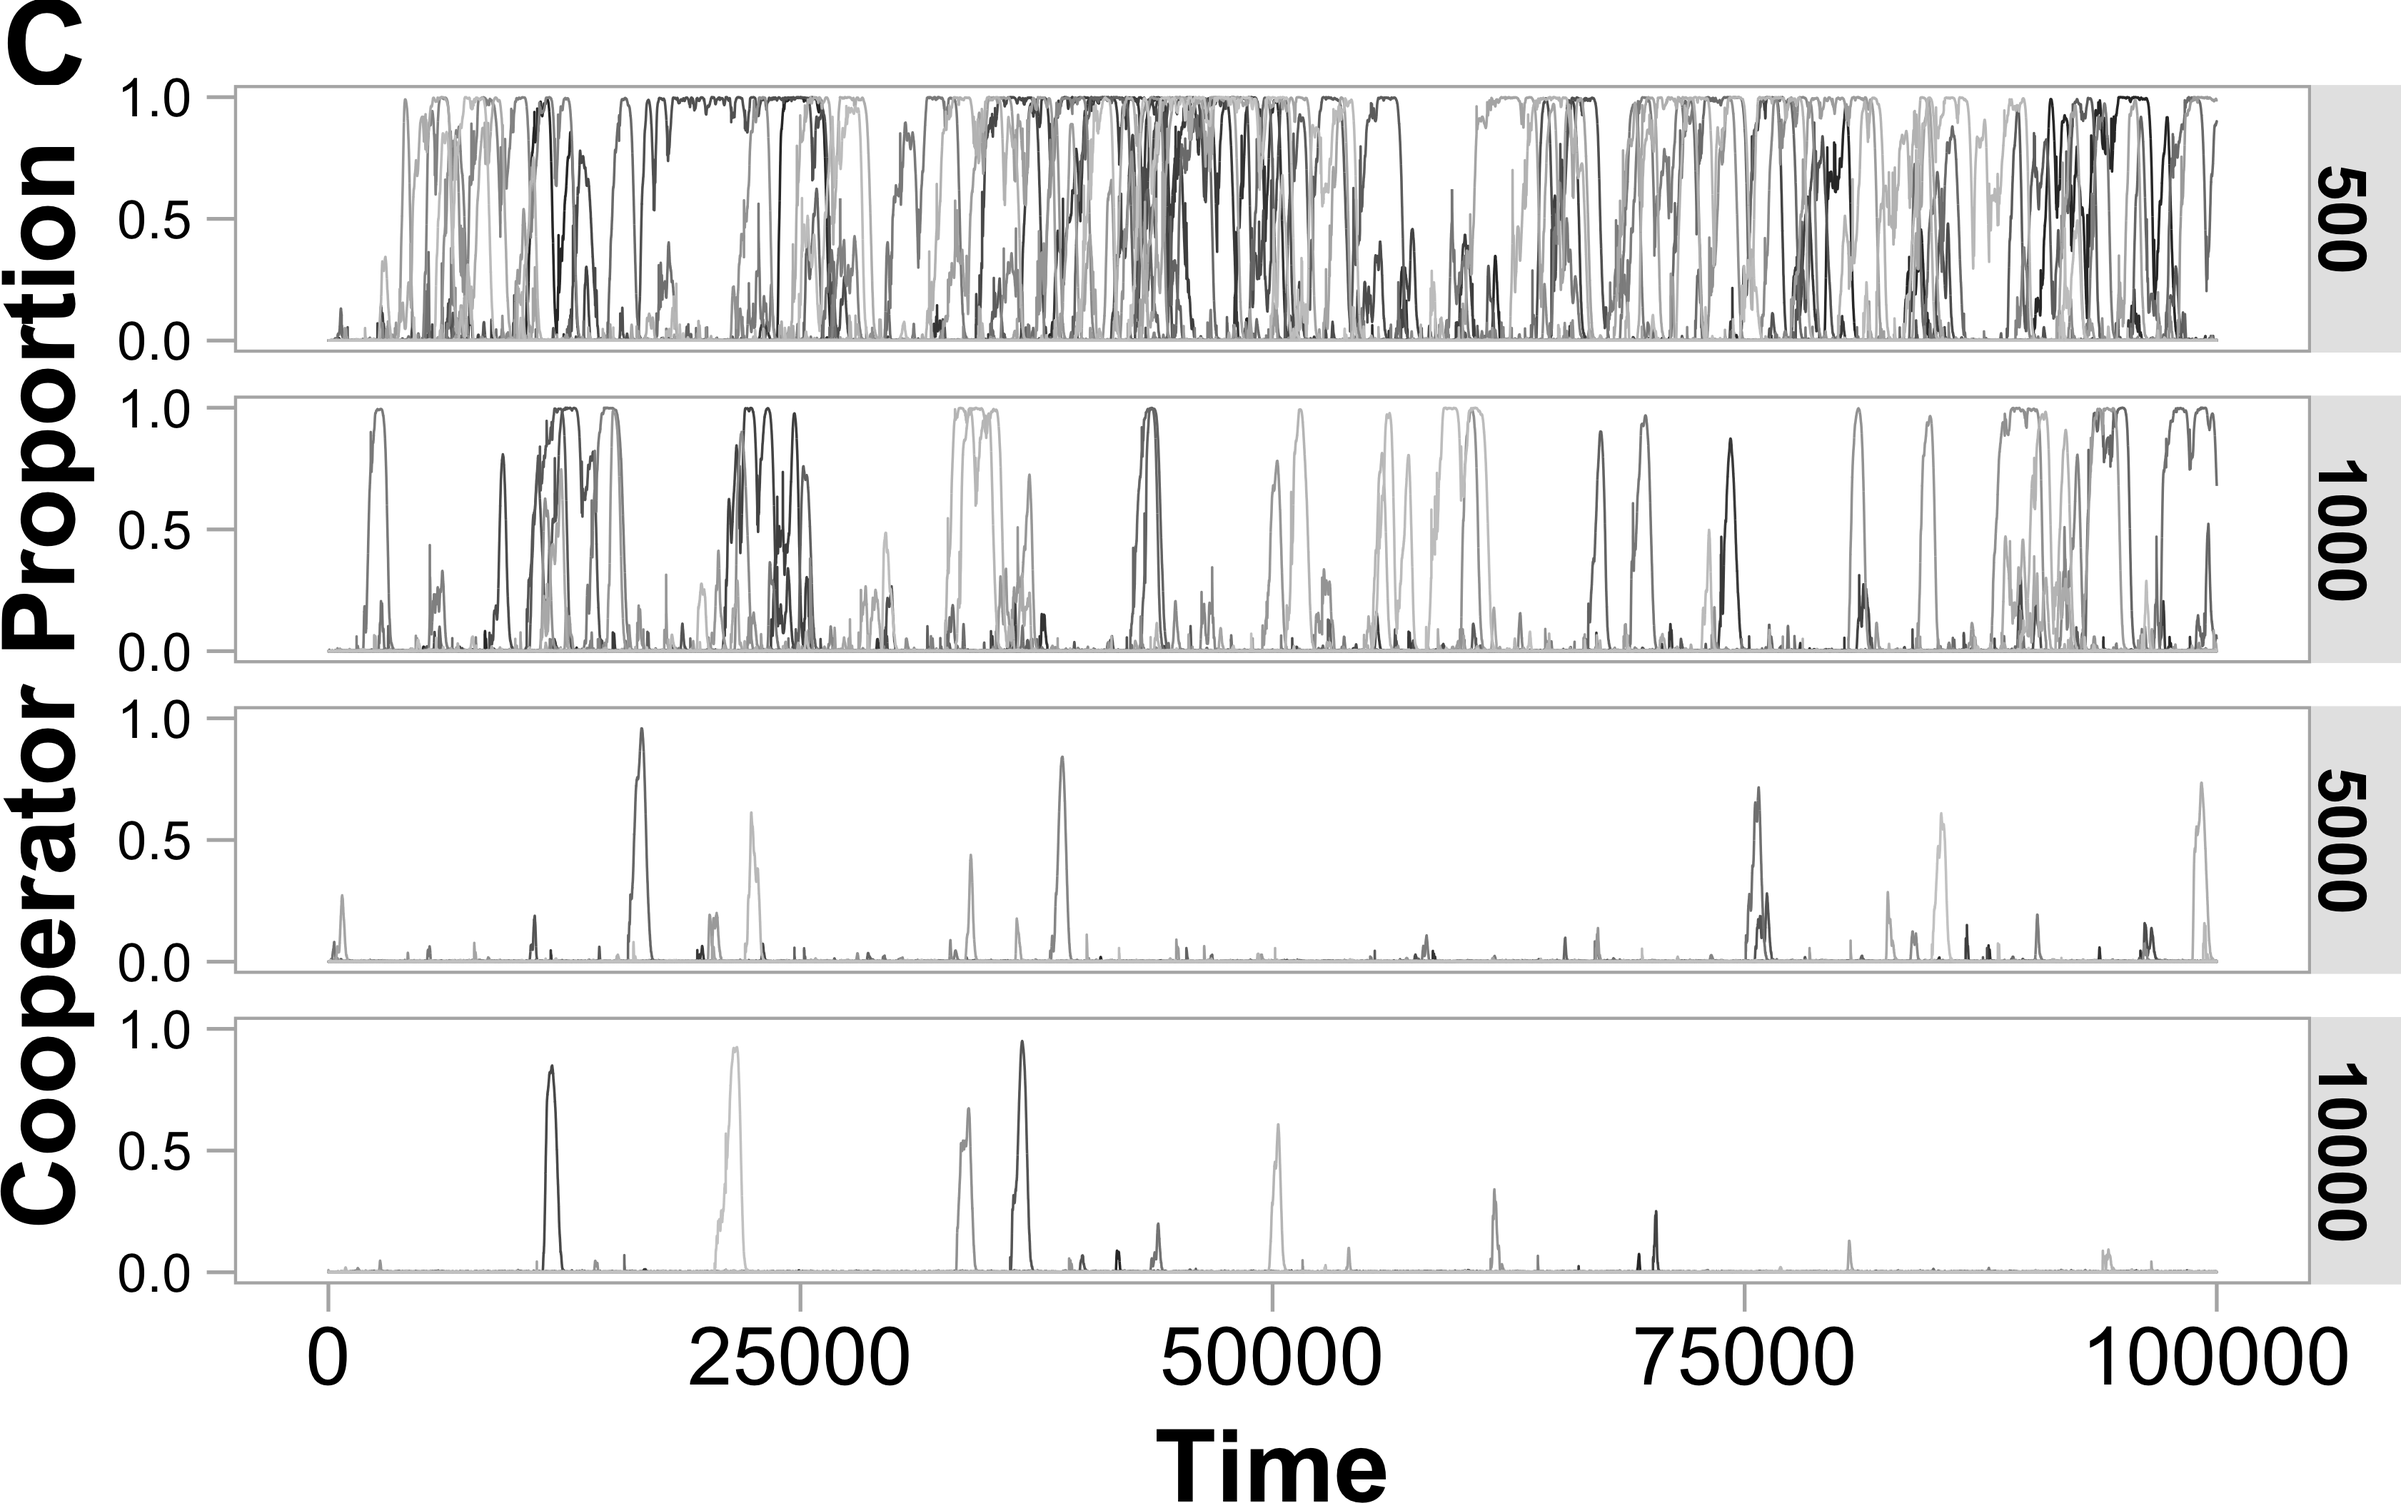
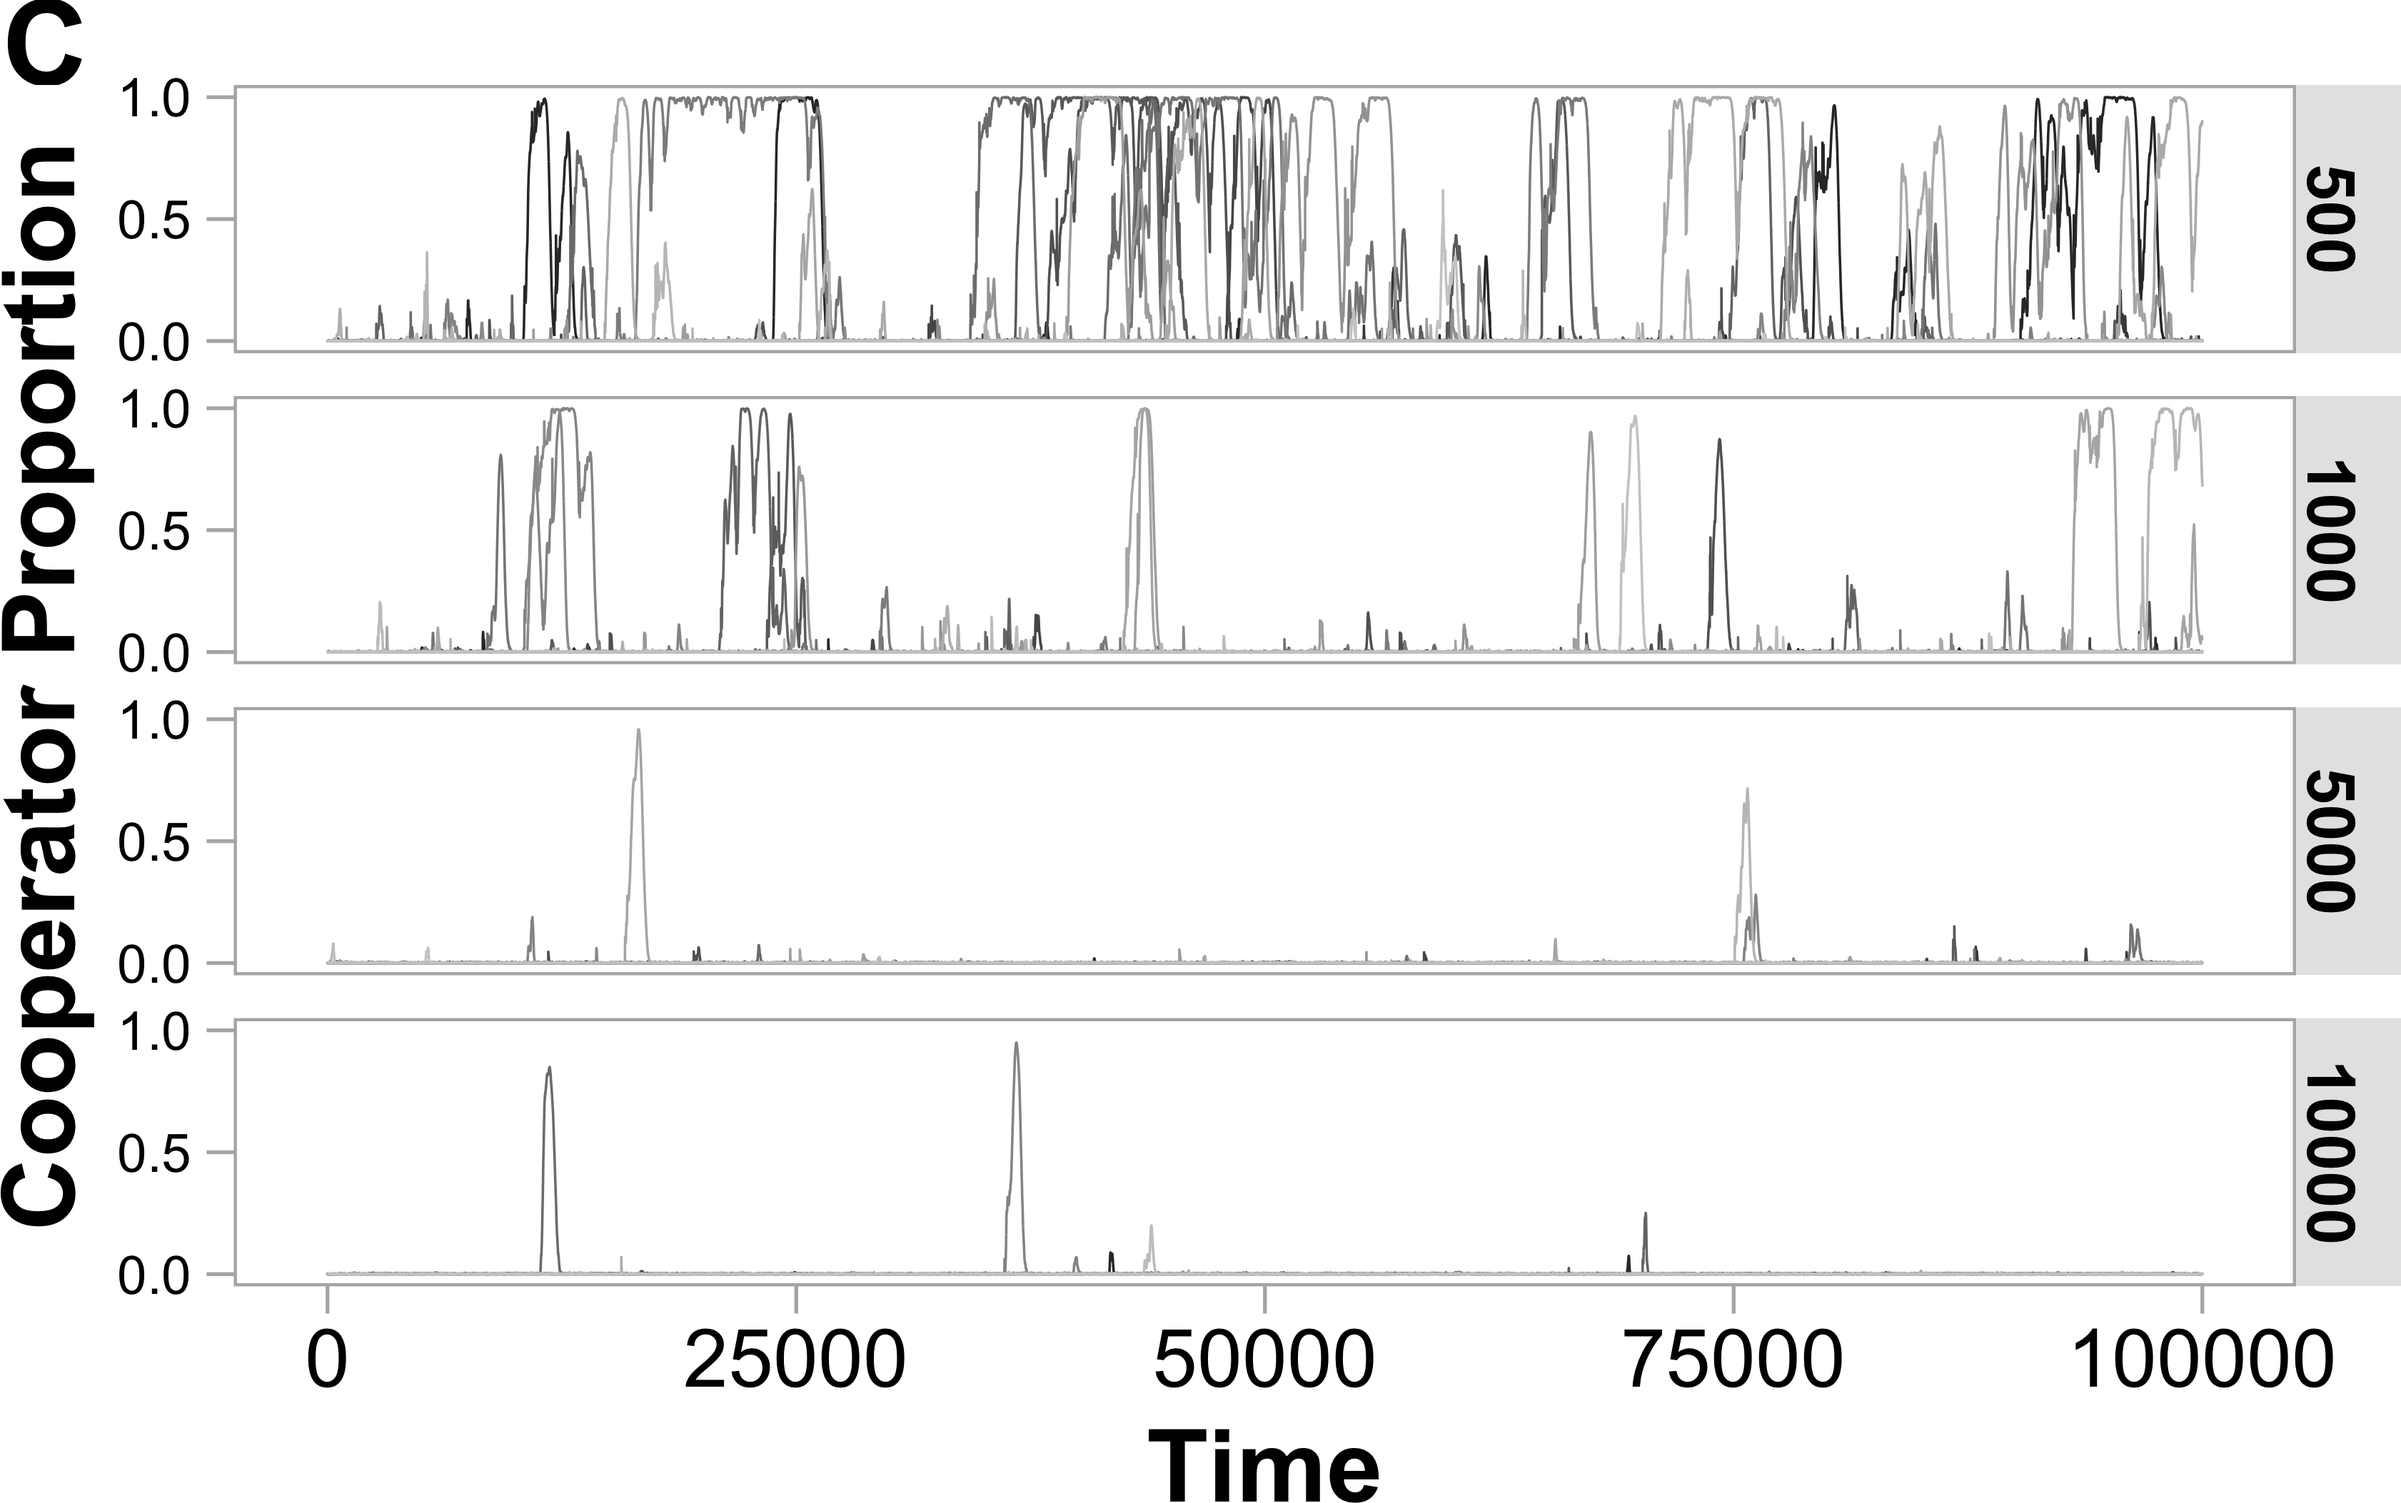
Figure 3 Updates: Now 20 reps

diff --git a/README.md b/README.md
@@ -27,9 +27,9 @@ hankshaw --config base.cfg --param Population genome_length 0
 | 1       | [data](data/lsweep.csv.bz2), [analysis](scripts/figure1.R), [figure](figures/Figure1.png) | **A:** [wellmixed.cfg](configuration/wellmixed.cfg), `Population:genome_length` = 0<br>**B:** [wellmixed.cfg](configuration/wellmixed.cfg), `Population:genome_length` = 8 (default)<br>**C:** [base.cfg](configuration/base.cfg), `Population:genome_length` = 0<br>**D:** [base.cfg](configuration/base.cfg) |
 | 2A      | [data](data/envchange-regular.csv.bz2), [analysis](scripts/plot-envchange-regular.R), [figure](figures/envchange-regular-rep.png) | [envchange-regular.cfg](configurations/envchange-regular.cfg) |
 | 2B      | [data](data/envchange-regular.csv.bz2), [analysis](scripts/plot-envchange-regular.R), [figure](figures/envchange-regular-all.png) | [envchange-regular.cfg](configurations/envchange-regular.cfg), `EnvironmentalChange:frequency` values 250, 500, 750, 1000, 1250, 2500 |
-| 3A      | [data](data/envchange-control.csv.bz2), [analysis](scripts/plot-envchange-control.R), [figure](figures/envchange-control.png) | TODO |
-| 3B      | [data](data/envchange-exponential-cooppct.csv.bz2), [analysis](scripts/plot-envchange-exponential.R), [figure](figures/envchange-exponential-sample.png) | TODO |
-| 3C      | [data](data/envchange-exponential-cooppct.csv.bz2), [analysis](scripts/plot-envchange-exponential.R), [figure](figures/envchange-exponential-all.png) | TODO | 
+| 3A      | [data](data/envchange-control.csv.bz2), [analysis](scripts/plot-envchange-control.R), [figure](figures/envchange-control.png) | [base.cfg](configuration/base.cfg), `Population:initial_producer_proportion` = 0.0 |
+| 3B      | [data](data/envchange-exponential-cooppct.csv.bz2), [analysis](scripts/plot-envchange-exponential.R), [figure](figures/envchange-exponential-sample.png) | [envchange-exponential.cfg](configuration/envchange-exponential.cfg) |
+| 3C      | [data](data/envchange-exponential-cooppct.csv.bz2), [analysis](scripts/plot-envchange-exponential.R), [figure](figures/envchange-exponential-all.png) | [envchange-exponential.cfg](configuration/envchange-exponential.cfg), `EnvironmentalChange:frequency` values 500, 1000, 5000, 10000 | 
 
 ### Supporting Information
 
